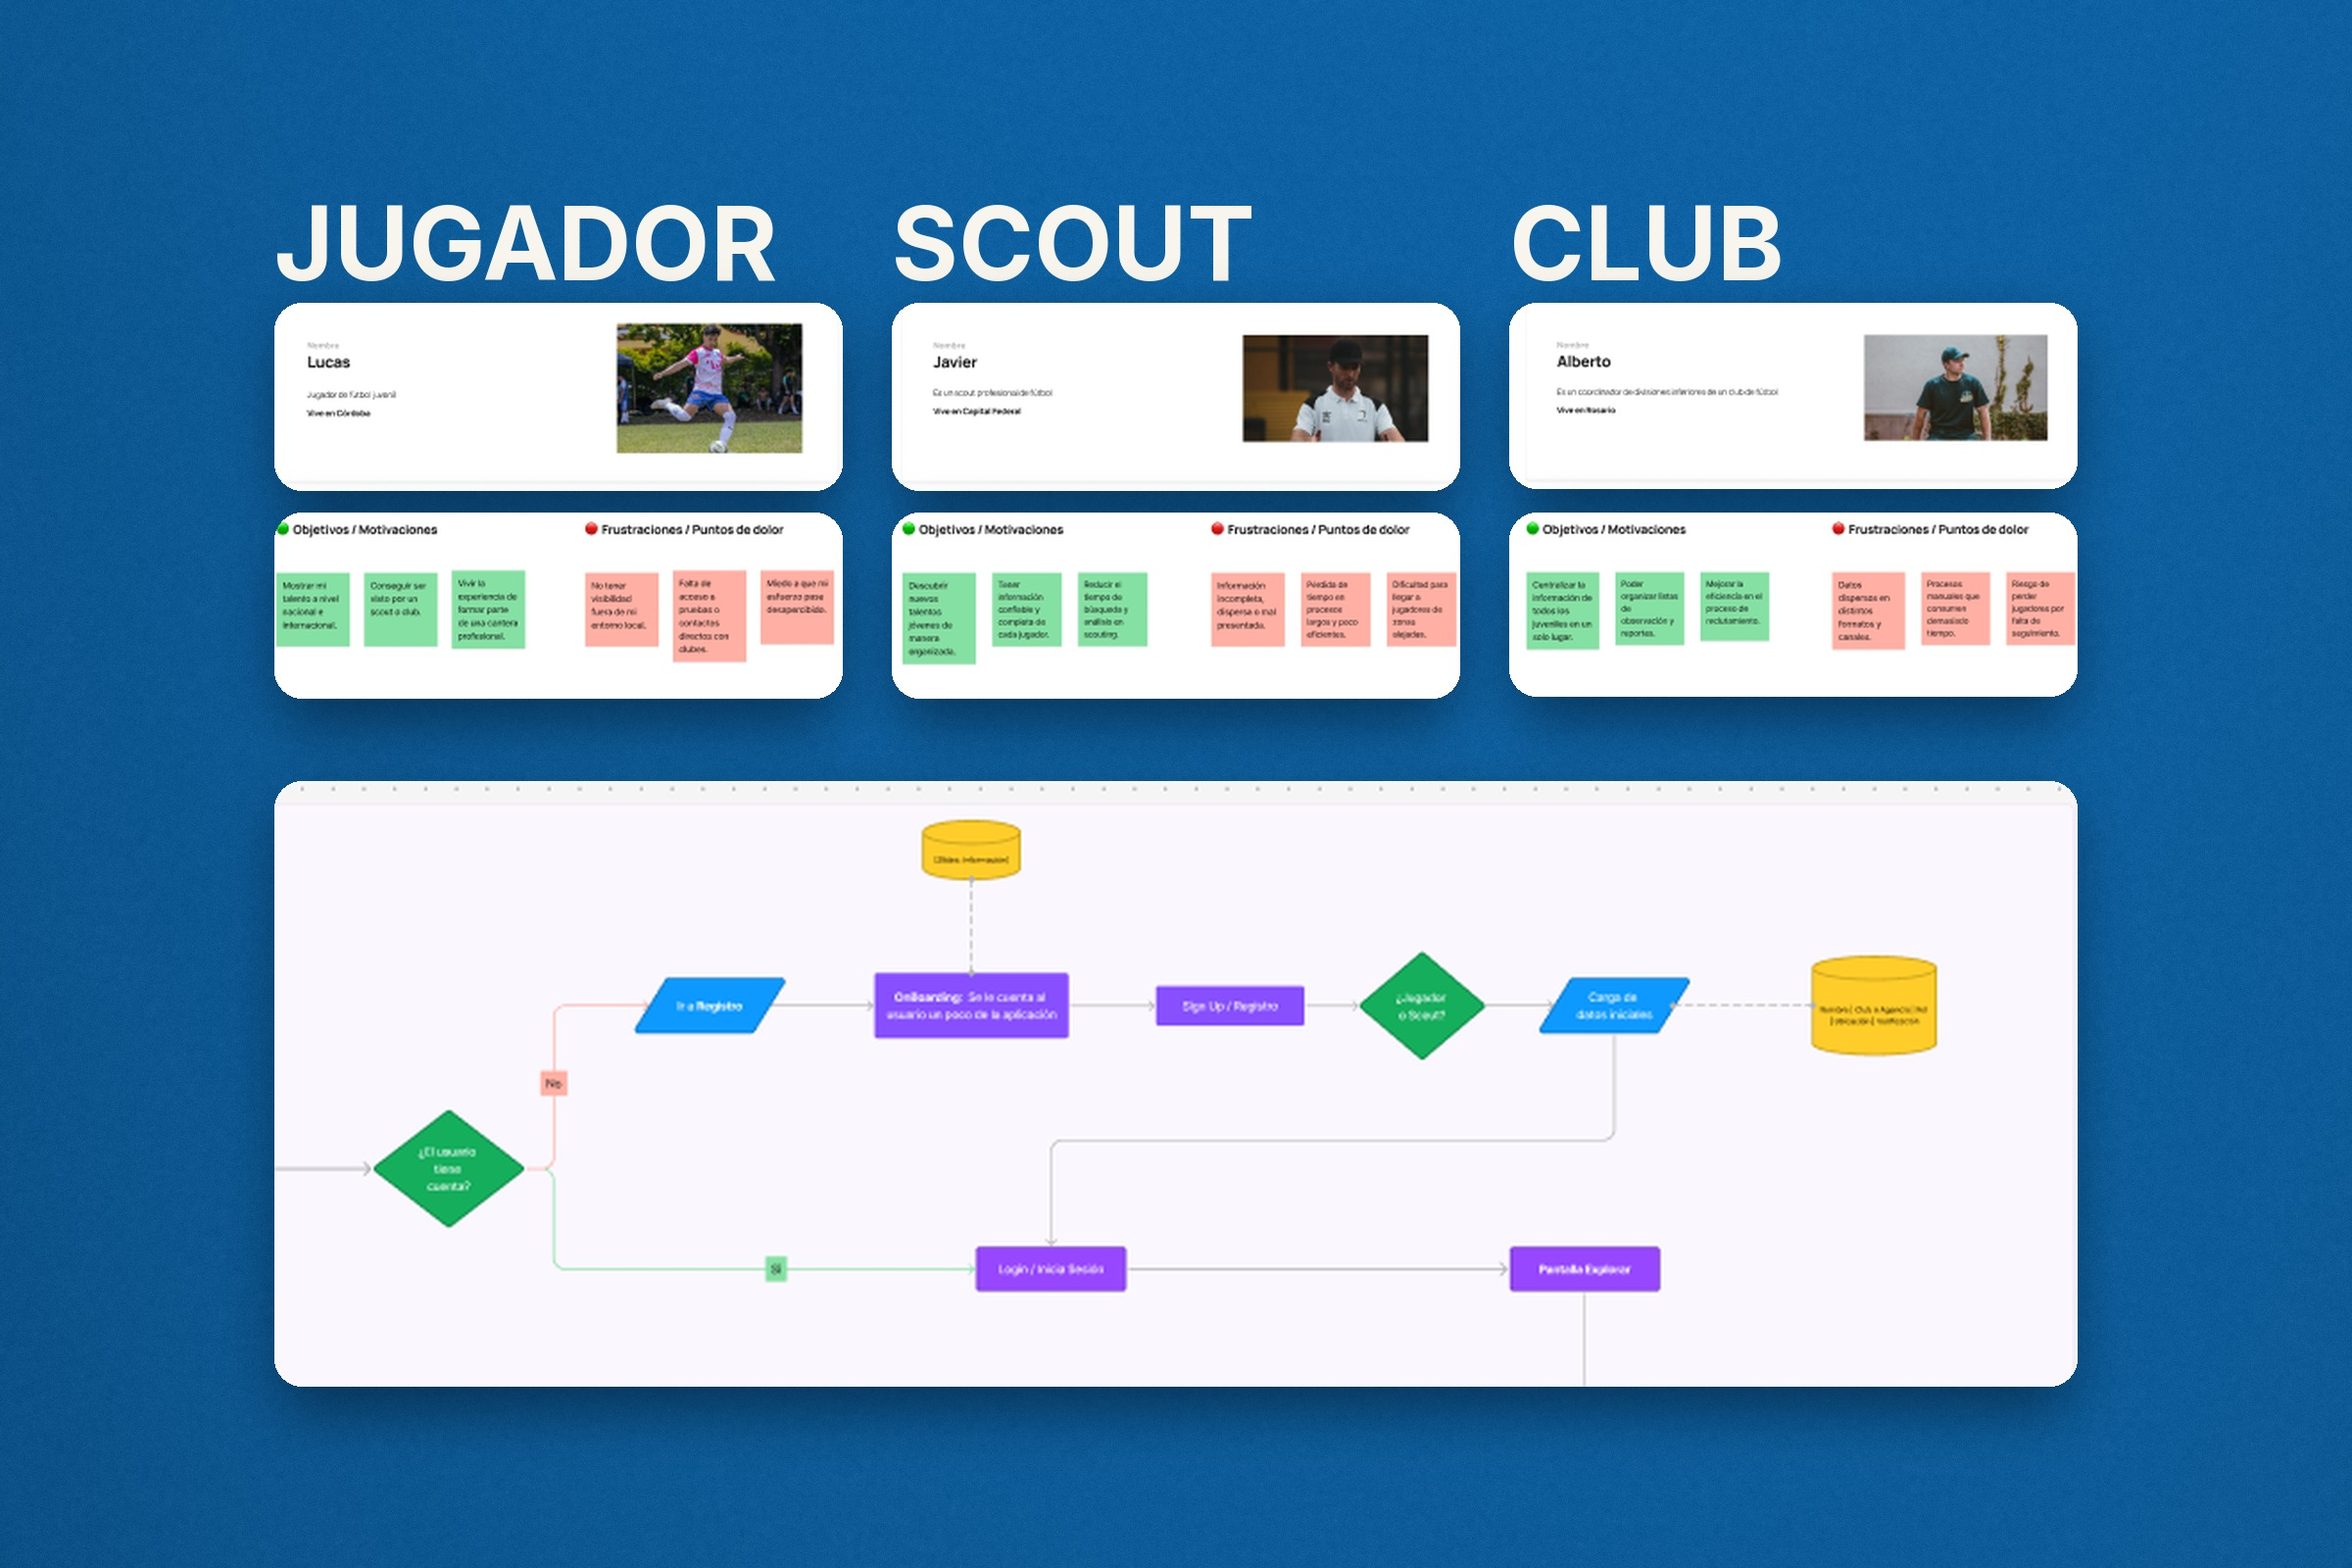
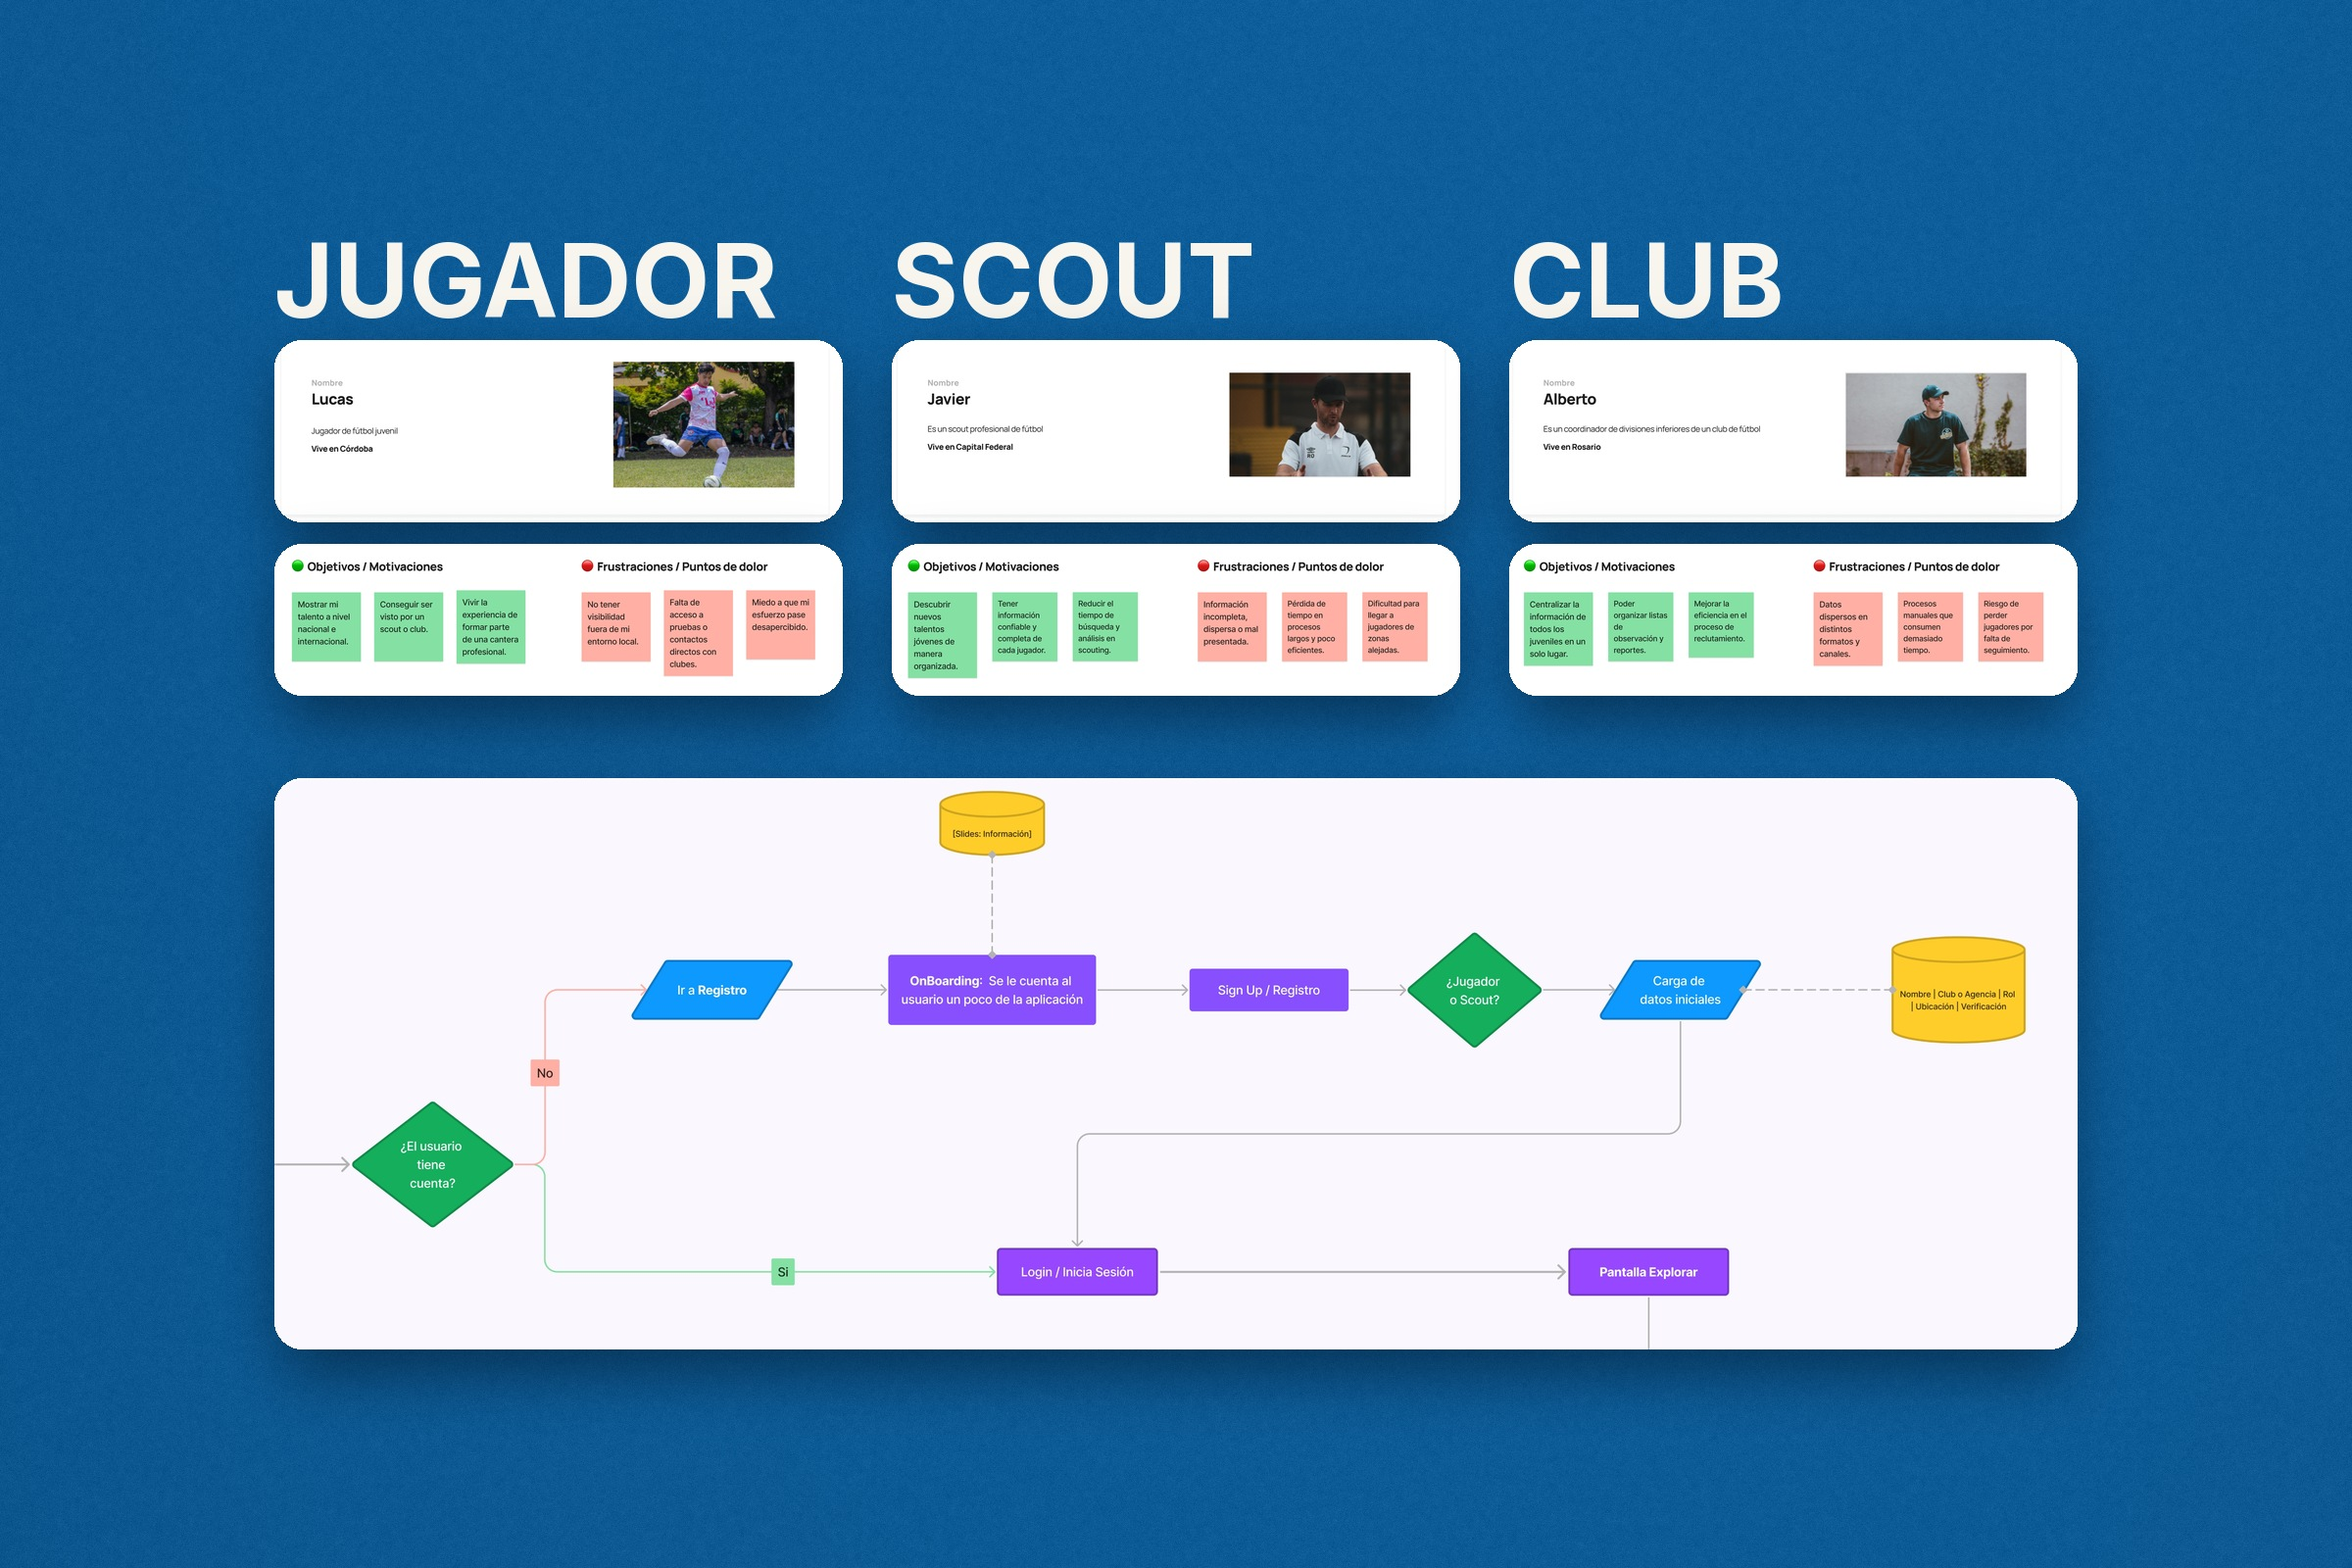
feat(img): detalle de contacto de Pulso y diagrama de FTP a 2x
Pulso: el 04-diagrama sale y entra 04-detalle, la pagina de contacto en mobile con el formulario y el boton de WhatsApp en la misma pantalla. Muestra la decision en el producto y no en un esquema. FTP: 01-diagrama re-exportado a 2x, mismo encuadre, revisado nodo por nodo al 100%. Rules actualizadas en 1.2, 2, 4.1, 4.2 y 5.

diff --git a/src/data/projects.ts b/src/data/projects.ts
@@ -127,9 +127,10 @@ export const projects: Project[] = [
      *   del cliente y conflictos de plantillas de WordPress, y no hay nada
      *   visual honesto que mostrar. No es un hueco por completar.
      * - 02 y 03 comparten `decisions`: van seguidas, como grupo.
-     * - El cluster va sobre el verde de marca y la paleta sobre charcoal. No
-     *   son acromaticas y esta bien: eso es regla de los covers, no de las
-     *   imagenes de case study (`.claude/rules/imagenes.md` §4.1).
+     * - El cluster va sobre el verde de marca. No es acromatico y esta bien:
+     *   eso es regla de los covers, no de las imagenes de case study
+     *   (`.claude/rules/imagenes.md` §4.1). La paleta y el detalle de
+     *   contacto van sobre gris de valor medio.
      */
     imageBriefs: [
       {
@@ -172,13 +173,16 @@ export const projects: Project[] = [
         src: '/images/case-study/pulso-creativo/03-paleta.jpg',
       },
       {
-        type: 'diagram',
+        // Las dos vias de contacto en el producto real, no en un esquema: la
+        // pagina de contacto en mobile, donde el boton flotante de WhatsApp
+        // queda pegado al formulario. Reemplaza al diagrama de las dos vias.
+        type: 'detail',
         slot: 'delivered',
         alt: {
-          es: 'Diagrama de las dos vías de contacto: WhatsApp para consultas rápidas y formulario para las detalladas',
-          en: 'Diagram of the two contact paths: WhatsApp for quick questions, a form for detailed ones',
+          es: 'La página de contacto de Pulso Creativo en un celular: el formulario y el botón de WhatsApp en la misma pantalla',
+          en: 'The Pulso Creativo contact page on a phone: the form and the WhatsApp button on the same screen',
         },
-        src: '/images/case-study/pulso-creativo/04-diagrama.jpg',
+        src: '/images/case-study/pulso-creativo/04-detalle.jpg',
       },
     ],
   },

diff --git a/.claude/rules/imagenes.md b/.claude/rules/imagenes.md
@@ -135,7 +135,7 @@ bullets o cards de texto adentro.**
 | | Veredicto |
 |---|---|
 | Un caso de éxito de Pulso con bullets (ya borrado) | ❌ A 330px solo se lee el título; la lista es textura. Tiene texto que hace falta leer y mide menos de 36px |
-| `04-diagrama` de Pulso — un diagrama de dos vías de contacto | ✅ Su significado está en la estructura y sobrevive al 27% de escala. **Es el estándar a igualar** |
+| `03-diagrama` de Ritual — un equipo del catálogo y los siete artistas que lo usan | ✅ Su significado está en la estructura y sobrevive al 27% de escala: a 330px se leen el título y los nombres. **Es el estándar a igualar** |
 
 **Y una sola idea por imagen.** Si hay que entrecerrar los ojos para entender
 qué muestra, está mal: una imagen de Pulso que metía logos + CTA + dos cards
@@ -181,7 +181,7 @@ proyecto no usa es tan deliberado como lo que usa.
 
 | | `mockup` | `long-strip` | `screen-cluster` | `palette` | `diagram` | `detail` | Total |
 |---|---|---|---|---|---|---|---|
-| **Pulso Creativo** | hero | intro | decisions | decisions | delivered | — | **5** |
+| **Pulso Creativo** | hero | intro | decisions | decisions | — | delivered | **5** |
 | **Paseo Güemes** | hero | intro | decisions | delivered | — | — | **4** |
 | **El Ritual del Tono** | hero | intro | decisions | delivered | decisions | — | **5** |
 | **FutbolTalent.Pro** | hero | — | decisions | — | challenge | — | **3** |
@@ -229,6 +229,12 @@ proyecto no usa es tan deliberado como lo que usa.
 > sensible se leía entero a 1× y otro estaba en el límite, así que **el 2× que se usa
 > para que el texto no quede borroso también vuelve legible lo que a 1× no se
 > leía**. Medir sobre el export final, no sobre el borrador.
+>
+> **Pasó con la re-exportación a 2× (2026-09-23)**: el mismo encuadre, pero los
+> campos de la base de registro, que antes se leían borrosos, pasaron a leerse
+> nítidos. Se revisaron uno por uno al 100% y quedan, por decisión de Tiago.
+> Cada vez que se re-exporta una imagen bajo NDA, el control se repite entero,
+> aunque el encuadre no haya cambiado.
 
 **`mockup` — el hero.** El sitio en un dispositivo, en un entorno real, en
 encuadre panorámico 21:9. **Es la misma composición que el cover del home**, a
@@ -370,12 +376,22 @@ sobrevive a la escala, por 1.2.
 > documento, referenciada por 11 canciones de 7 artistas. El modelo de datos no
 > aparece en ninguna pantalla y es lo que prueba que el proyecto es full-stack
 > y no un frontend con datos fijos. Sale de los esquemas reales del backend, no
-> del copy. **El contraejemplo es `04-diagrama` de Pulso**: las dos vías de
-> contacto sí se ven en el sitio, y por eso está en revisión (`CLAUDE.md` §8,
-> punto 8).
+> del copy. **El contraejemplo fue el diagrama de Pulso**: mostraba las dos
+> vías de contacto como un esquema, cuando se ven en el sitio. Se reemplazó por
+> `04-detalle`, la captura del producto (ver `detail`, abajo).
 
 **`detail`.** Un recorte o zoom de UNA pantalla. **Nunca la pantalla entera**:
 a 330px una pantalla completa es una mancha gris.
+
+> **Caso real — `04-detalle` de Pulso:** la página de contacto en un celular,
+> con el formulario y el botón flotante de WhatsApp en la misma pantalla,
+> dentro del marco de celular de los clústeres y sobre gris de valor medio.
+> Muestra la decisión de las dos vías de contacto en el producto y no en un
+> esquema. **La primera versión fue la página entera capturada en desktop, y
+> no servía**: a 330px era una mancha gris, y el botón de WhatsApp, que en
+> desktop queda en la esquina de la ventana, medía 4px. En mobile el botón
+> flotante queda pegado al formulario, así que **el ancho de la captura decide
+> qué queda junto**: se elige el dispositivo donde la decisión se ve.
 
 ### Lo que queda AFUERA del vocabulario
 
@@ -524,7 +540,7 @@ valor medio para la documentación.**
 | `01-tira` | Hormigón de valor medio | Solo en las capturas | Misma textura que el mockup: las dos piezas a sangre se leen como una familia |
 | `02-cluster` | **Plano del verde marca `#8EB943`** | Sí, todo el fondo | Se ve sola en su página. El verde dice de quién es el proyecto antes de leer nada |
 | `03-paleta` | Gris de **valor medio** (73) | Sí, las bandas y el logo | El contenido **es** la paleta |
-| `04-diagrama` | Charcoal | Acentos | Documentación. ⚠ **Desparejo**: la paleta está en valor medio (73) y el diagrama sigue en charcoal (42), que falla §4.2 en la página. Se iguala cuando se rehaga |
+| `04-detalle` | Gris de **valor medio**, con el marco de celular de los clústeres | Solo en la pantalla | Mismo fondo que la paleta: las dos piezas del cierre quedan parejas |
 
 **Paletas de los clientes**, para rehacer piezas sin volver a extraerlas:
 
@@ -580,7 +596,7 @@ y a `#EDE2CD` ≈ 227):
 | Imagen | Borde | Distancia oscuro / claro | Número | En la página |
 |---|---|---|---|---|
 | Pulso `01-tira`, primera versión | casi negro | — | ❌ 71,5% del borde pegado a `#111110` | Se fundía en el tema por defecto |
-| Pulso `04-diagrama` | charcoal, 42 | **25** / 185 | ✅ 0% cerca de los dos | ❌ **Casi no se lee.** El número es un piso, no una prueba |
+| Pulso `04-diagrama` (ya reemplazado) | charcoal, 42 | **25** / 185 | ✅ 0% cerca de los dos | ❌ **Casi no se lee.** El número es un piso, no una prueba |
 | Ritual `03-diagrama` | hormigón alrededor de una tarjeta oscura, 92 | 75 / 135 | ✅ | La primera versión tenía la tarjeta a 48px del borde: en desktops angostos el recorte del parallax se comía el hormigón y el borde visible pasaba a ser la tarjeta oscura. **La zona segura (§2) también protege el borde** |
 | FTP cover | hormigón, 103 | 86 / 124 | ✅ 3,5% cerca del oscuro | La sombra de una esquina, bajo el 15%: una zona oscura chica no hace fallar la regla |
 
@@ -649,7 +665,7 @@ El caso real de Pulso, cinco piezas de cinco tipos:
 01-tira.jpg        type long-strip      slot intro
 02-cluster.jpg     type screen-cluster  slot decisions
 03-paleta.jpg      type palette         slot decisions
-04-diagrama.jpg    type diagram         slot delivered
+04-detalle.jpg     type detail          slot delivered
 ```
 
 **El número es el orden. El nombre es el tipo. El `slot` del brief decide
@@ -658,8 +674,8 @@ sección (`02-challenge`) ataría la imagen a un único lugar de la página.
 
 > 🚨 **Nombrar por posición y no por tipo cambia la imagen que se publica, y no
 > lo avisa nada.** En Pulso, Paseo y Ritual los nombres parecen una secuencia
-> (`00-mockup` · `01-tira` · `02-cluster` · `03-paleta` · `04-diagrama`) porque
-> esos casos usan esos tipos en ese orden. **Es coincidencia, no plantilla.**
+> (`00-mockup` · `01-tira` · `02-cluster` · `03-…`) porque esos casos usan
+> esos tipos en ese orden. **Es coincidencia, no plantilla.**
 > FutbolTalent no tiene tira ni paleta, así que sus tres piezas son `mockup`,
 > `diagram` y `screen-cluster`.
 >

diff --git a/CLAUDE.md b/CLAUDE.md
@@ -314,7 +314,7 @@ arreglos sobre lo ya publicado, en este orden:
 
 | | Tarea | Dónde está el detalle |
 |---|---|---|
-| 1 | **El diagrama de Pulso** — reemplazarlo por una captura de su página de contacto | *"Pulso"*, punto 8. Arrastra el punto 5 y menciones en §1.2, §2, §4.1, §4.2 y §5 de las rules |
+| 1 | ✅ **El diagrama de Pulso** — reemplazado por `04-detalle`, la página de contacto en mobile con el formulario y el botón de WhatsApp | Las rules ya lo citan en §1.2, §2, §4.1, §4.2 y §5 |
 
 **Decidido, se quedan como están** (Tiago, 2026-09-23). No vuelven a
 aparecer como pendientes:
@@ -354,47 +354,11 @@ FutbolTalent (`.claude/rules/imagenes.md` §1.1).
 
 ### Pulso
 
-**Siguen abiertos:**
-
-5. **`04-diagrama` — dos cosas en la misma pasada.** ⏸ **En suspenso hasta
-   decidir el punto 8**: si el diagrama se reemplaza, este arreglo no hace falta.
-   - **El borde no se lee.** El charcoal da los números (0% cerca de
-     `#111110`) pero en la página real el contorno casi no se ve. Sube un
-     escalón. Es el caso que demostró que el número de §4.2 es un piso y no
-     una prueba.
-   - **El título está dentro de la zona segura**: arranca a 61px del borde
-     superior del frame 1×, y la zona pide 80. Se baja.
-
-> ⚠ Con la paleta ya en valor medio y el diagrama todavía en charcoal (42), las
-> dos piezas de documentación de Pulso quedaron **desparejas**. Es un argumento
-> más para el punto 5: cuando se rehaga el diagrama, va al mismo fondo.
-
 Queda aparte, no bloquea nada:
 
 7. **`priority` está deprecado en Next 16** (reemplazado por `preload`). Sigue
    funcionando —el HTML emite el `<link rel="preload">` del mockup—, pero
    `CaseStudyImage` usa la prop vieja.
-
-⏳ **Dentro de esta versión, no en V2** (decisión de Tiago, 2026-09-22):
-
-8. **`04-diagrama` — ¿reemplazarlo por el producto real?** A Tiago no le
-   cierra (2026-09-21). Es la única imagen de los sets publicados que muestra
-   una decisión **en abstracto** en vez del sitio, y al final de la página
-   rompe el registro: todo lo anterior es producto, y el cierre es un esquema.
-   - **Candidato**: una captura de la página de contacto de Pulso con el
-     formulario y el botón de WhatsApp **en el mismo encuadre**. Muestra la
-     misma decisión (dos vías de contacto), pero en el producto real.
-   - **Si se reemplaza, el `type` pasa de `diagram` a `screen-cluster` o
-     `detail`.** Ojo con §1.2 de las rules: la página de contacto entera tiene
-     labels y texto chico, así que como `detail` va recortada a formulario +
-     botón. Y el botón de WhatsApp es el flotante de Joinchat (`position:
-     fixed`): verificar que aparezca en la captura y al lado del formulario,
-     porque un elemento fijo no siempre queda donde se lo ve al scrollear.
-   - **Arrastra docs**: `.claude/rules/imagenes.md` cita este diagrama como
-     *"el estándar a igualar"* en §1.2 y lo lista en §2, §4.1, §4.2 y §5. Si se
-     reemplaza, esas menciones se actualizan en la misma pasada.
-   - **Mata el punto 5** si se reemplaza, y con él la nota de las dos piezas de
-     documentación desparejas.
 
 **Decisiones de Tiago que siguen abiertas sobre el copy de Pulso:**
 - ¿El sitio está dado de alta en Search Console? En el HTML no hay meta de verificación, pero puede estar verificado por DNS.
